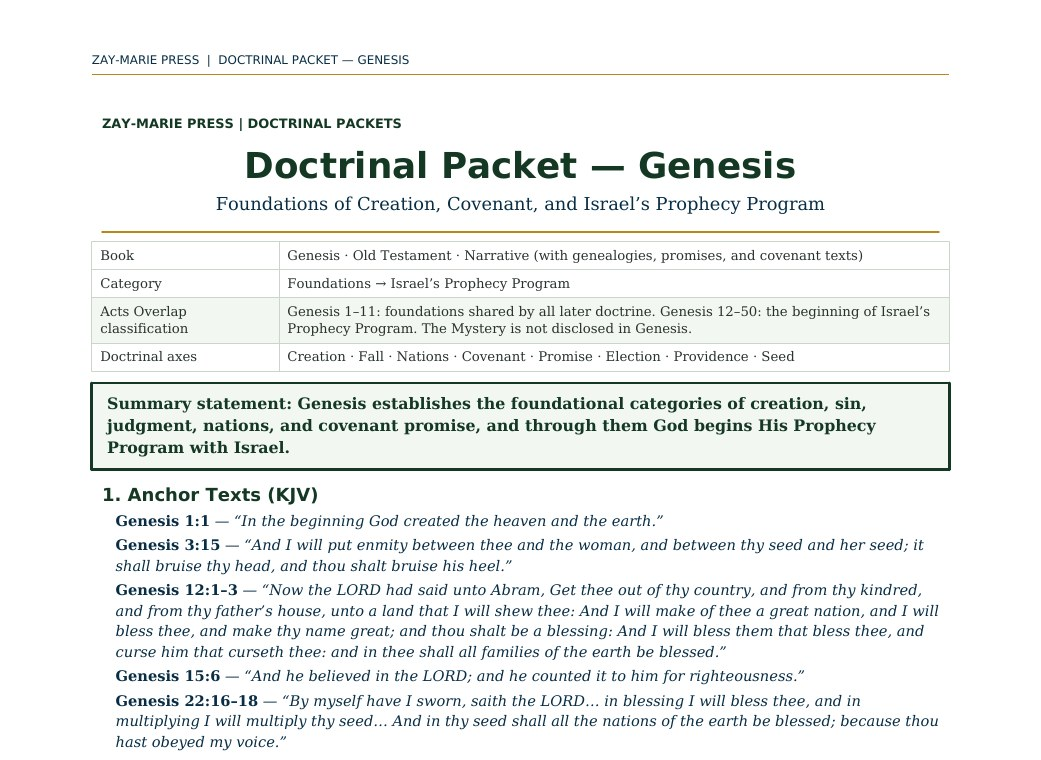
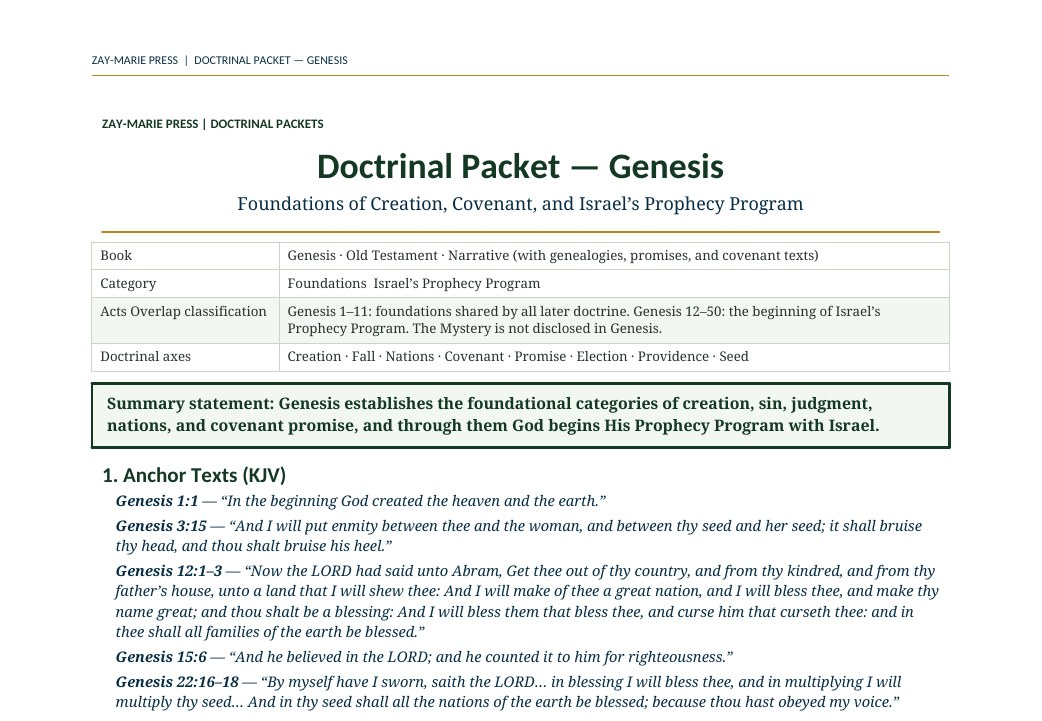
Add Doctrinal Packet: Hebrews; refresh Genesis packet previews (Noto Serif)
Claude-Session: https://claude.ai/code/session_018egMFLx6sFSnLYTKDCGyzC

Changed region(s): [[0.0922, 0.1526, 0.9222, 1.0], [0.0922, 0.061, 0.9222, 0.1221]]

diff --git a/packet-hebrews.html b/packet-hebrews.html
@@ -1,8 +1,12 @@
 <!doctype html>
-<html lang="en"><head><meta charset="utf-8"><meta name="viewport" content="width=device-width,initial-scale=1"><title>Doctrinal Packets | Zay-Marie Press</title><meta name="description" content="Doctrinal Packets are short printable interpretive guides to one book of the Bible, with KJV anchor texts, selective exegesis, charts, and teaching outlines."><link rel="stylesheet" href="styles.css?v=20260921-4"><link rel="icon" type="image/png" href="assets/zay-marie-press-favicon.png"><style>
+<html lang="en"><head><meta charset="utf-8"><meta name="viewport" content="width=device-width,initial-scale=1"><title>Doctrinal Packet: Hebrews | Zay-Marie Press</title><meta name="description" content="A 4-page printable doctrinal packet on Hebrews: KJV anchor texts, selective exegesis, the warning passages, the new covenant, charts, and a teaching outline. Preview the packet."><link rel="stylesheet" href="styles.css?v=20260921-4"><link rel="icon" type="image/png" href="assets/zay-marie-press-favicon.png"><style>
 .study-detail-page{background:#fff;color:#252525}.detail-hero{background:linear-gradient(135deg,#f8f5ec,#e3ece2);padding:58px 0}.detail-hero-grid{display:grid;grid-template-columns:minmax(250px,.72fr) minmax(0,1.28fr);gap:58px;align-items:center}.detail-cover{max-width:390px;margin:auto}.detail-cover img{display:block;width:100%;height:auto;box-shadow:0 14px 36px rgba(8,45,69,.18)}.detail-hero h1{font-size:clamp(2.7rem,5vw,4.7rem);line-height:1.02;margin:8px 0 10px;color:#143823}.detail-subtitle{font-family:Georgia,serif;font-size:1.35rem;font-weight:700;color:#082d45;margin:0 0 7px}.detail-kicker{font-family:Georgia,serif;font-style:italic;font-size:1.05rem;color:#4a4a44;margin:0 0 22px}.detail-copy{font-size:1.08rem;line-height:1.65;max-width:760px}.detail-buyline{display:flex;align-items:center;gap:18px;flex-wrap:wrap;margin-top:25px}.detail-price{font-family:Georgia,serif;font-size:2rem;font-weight:700;color:#143823}.detail-format,.preview-card .page-no{font-family:Arial,sans-serif;font-size:.76rem;font-weight:700;letter-spacing:.1em;text-transform:uppercase;color:#176b3a}.detail-button{display:inline-block;background:#176b3a;color:#fff;padding:13px 22px;font-family:Arial,sans-serif;font-size:.8rem;font-weight:700;letter-spacing:.07em;text-transform:uppercase}.detail-button.pending{opacity:.72;cursor:default}.detail-section{padding:66px 0}.detail-section.soft{background:#f6f7f2}.detail-section.cream{background:#faf8f2}.detail-section h2{color:#143823;margin:6px 0 18px;font-size:clamp(2rem,3.4vw,3rem)}.detail-section .lead{max-width:920px;font-size:1.1rem;line-height:1.62}.study-distinction{max-width:920px;margin-top:28px;margin-bottom:28px;padding:26px 28px;background:#fff;border:1px solid #d8d1bf;border-left:4px solid #b8871c}.study-distinction h3{margin:0 0 10px;color:#143823}.study-distinction p{margin:0 0 14px;line-height:1.62}.study-distinction a{font-family:Arial,sans-serif;font-weight:700;color:#176b3a;text-decoration:none}.study-points{display:grid;grid-template-columns:repeat(3,1fr);gap:18px;margin-top:28px;margin-bottom:28px}.study-point,.scripture-card,.preview-card,.include-item{background:#fff;border:1px solid var(--line);text-align:left}.study-point{border-top:3px solid #176b3a;padding:22px}.study-point h3{color:#143823;margin:0 0 8px;font-size:1.2rem}.study-point p,.scripture-card p,.preview-card p,.include-item p{margin:0;line-height:1.55}.scripture-grid{display:grid;grid-template-columns:repeat(4,1fr);gap:14px;margin-top:24px;margin-bottom:24px}.scripture-card{padding:22px 20px;color:#143823}.scripture-card h3{margin:0 0 9px;font-family:Georgia,serif;font-size:1rem;line-height:1.35}.scripture-card p{font-size:.94rem;color:#45453f}.excerpt{max-width:900px;margin:28px auto;border-left:4px solid #b8871c;padding:10px 0 10px 28px}.excerpt blockquote{font-family:Georgia,serif;font-size:clamp(1.45rem,2.5vw,2rem);line-height:1.45;color:#143823;margin:0 0 16px}.excerpt p{line-height:1.6;margin:0}.preview-grid{display:grid;grid-template-columns:repeat(2,1fr);gap:20px;margin-top:28px;margin-bottom:28px}.preview-card{padding:18px;min-height:210px;box-shadow:0 7px 20px rgba(20,40,25,.05)}.preview-image-link{display:block;margin:0 0 18px}.preview-image-link img{display:block;width:100%;height:auto;border:1px solid #d8d1bf;box-shadow:0 8px 22px rgba(20,40,25,.1);transition:transform .18s ease,box-shadow .18s ease}.preview-image-link:hover img{transform:translateY(-2px);box-shadow:0 11px 28px rgba(20,40,25,.16)}.preview-card h3{color:#143823;margin:8px 0 10px}.preview-instruction{margin:10px 0 0;font-family:Arial,sans-serif;font-size:.78rem;letter-spacing:.04em;color:#5b5b55}.includes-grid{display:grid;grid-template-columns:repeat(4,1fr);gap:14px;margin-top:26px}.include-item{padding:22px 20px;color:#143823}.include-item h3{margin:0 0 9px;font-family:Arial,sans-serif;font-size:.86rem;line-height:1.35;letter-spacing:.02em}.include-item p{font-size:.94rem;color:#45453f}.final-buy{background:#082d45;color:#fff;border-top:4px solid #b8871c;padding:42px 48px;display:grid;grid-template-columns:1fr auto;gap:36px;align-items:center}.final-buy .eyebrow,.final-buy h2,.final-buy .detail-price{color:#fff}.final-buy h2{margin:7px 0 6px}.final-buy p{margin:0}.final-offer{text-align:center}.back-link{display:inline-block;margin-top:18px;color:#143823;font-family:Arial,sans-serif;font-weight:700;text-decoration:none}.preview-lightbox{position:fixed;inset:0;z-index:10000;display:none;align-items:flex-start;justify-content:center;background:rgba(8,22,16,.88);padding:24px;overflow:auto}.preview-lightbox.open{display:flex}.preview-lightbox img{display:block;width:auto;height:auto;max-width:none;box-shadow:0 18px 55px rgba(0,0,0,.4);background:#fff}.preview-lightbox-close{position:fixed;top:18px;right:24px;z-index:10001;width:46px;height:46px;border:1px solid rgba(255,255,255,.65);border-radius:50%;background:rgba(0,0,0,.55);color:#fff;font:32px/1 Arial,sans-serif;cursor:pointer}@media(max-width:900px){.detail-hero-grid{grid-template-columns:1fr;gap:34px}.detail-cover{max-width:330px}.study-points{grid-template-columns:repeat(2,1fr)}.scripture-grid,.includes-grid{grid-template-columns:repeat(2,1fr)}.preview-grid,.final-buy{grid-template-columns:1fr}.final-offer{text-align:left}}@media(max-width:560px){.detail-hero{padding:42px 0}.detail-section{padding:50px 0}.study-points,.scripture-grid,.includes-grid{grid-template-columns:1fr}.final-buy{padding:32px 24px}.detail-buyline{align-items:flex-start;flex-direction:column;gap:8px}.preview-lightbox{padding:58px 10px 24px}.preview-lightbox img{width:100%;max-width:100%;height:auto}} .detail-hero h1{font-size:clamp(2.1rem,4.2vw,3.7rem);line-height:1.08}.packet-card{max-width:370px;margin:auto;aspect-ratio:3/4;background:#082d45;color:#fff;border-top:6px solid #b8871c;box-shadow:0 14px 36px rgba(8,45,69,.22);display:flex;flex-direction:column;justify-content:center;padding:34px 30px;text-align:center}.packet-card .pc-kick{font:700 .74rem Arial,sans-serif;letter-spacing:.16em;text-transform:uppercase;color:#e2c47c;margin-bottom:22px}.packet-card .pc-title{font:700 clamp(2.4rem,4.5vw,3.4rem)/1.05 Georgia,serif;margin:0 0 16px}.packet-card .pc-rule{width:64px;height:3px;background:#b8871c;margin:0 auto 16px}.packet-card .pc-sub{font:italic 1.05rem/1.45 Georgia,serif;color:#dbe6ee;margin:0}.packet-card .pc-foot{margin-top:28px;font:700 .68rem Arial,sans-serif;letter-spacing:.14em;text-transform:uppercase;color:#e2c47c}.packet-hub-card{display:grid;grid-template-columns:120px 1fr auto;gap:22px;align-items:center;background:#fff;border:1px solid #d8d1bf;border-left:4px solid #b8871c;padding:22px 24px;margin-top:22px;text-decoration:none;color:inherit}.packet-hub-card h3{margin:0 0 6px;color:#143823;font-size:1.5rem}.packet-hub-card p{margin:0;line-height:1.55}.packet-hub-mark{background:#082d45;color:#e2c47c;font:700 .7rem Arial,sans-serif;letter-spacing:.14em;text-transform:uppercase;text-align:center;padding:18px 8px;border-top:4px solid #b8871c}.packet-hub-price{font:700 1.4rem Georgia,serif;color:#143823;white-space:nowrap}.packet-compare{width:100%;border-collapse:collapse;margin-top:26px;background:#fff}.packet-compare th{background:#3B6E91;color:#fff;font:700 .8rem Arial,sans-serif;text-align:left;padding:10px 12px}.packet-compare td{border:1px solid #d8d1bf;padding:10px 12px;vertical-align:top;line-height:1.5}.packet-compare tr:nth-child(even) td{background:#f6f7f2}@media(max-width:700px){.packet-hub-card{grid-template-columns:1fr}.packet-hub-mark{max-width:160px}.packet-compare{font-size:.92rem}}</style></head><body class="study-detail-page">
-<header class="site-header"><div class="wrap nav"><a class="logo" href="index.html" aria-label="Zay-Marie Press home"><img src="assets/zay-marie-press-logo-hq.png" alt="Zay-Marie Press" width="420" height="238"></a><button class="menu-toggle" type="button" aria-expanded="false" aria-controls="primary-nav">MENU</button><nav aria-label="Primary navigation" class="primary-nav" id="primary-nav"><a href="index.html">HOME</a><a href="books.html">BOOKS</a><a href="series.html">SERIES</a><a href="digital-studies.html">DIGITAL STUDIES</a><a href="biblical-hermeneutics-course.html">COURSE</a><a href="about.html">ABOUT</a><a class="active" aria-current="page" href="resources.html">RESOURCES</a><a href="contact.html">CONTACT</a></nav></div></header><main><section class="detail-hero"><div class="wrap"><div class="eyebrow">DOCTRINAL PACKETS</div><h1>Doctrinal Packets</h1><p class="detail-subtitle">One book at a time, interpreted and ready to teach</p><p class="detail-copy">A Doctrinal Packet is a short, printable interpretive guide to one book of the Bible. It reads the passages that carry the book’s doctrine in the King James Version, places the book within God’s programs, and gives you charts and a teaching outline. Packets are new; more will follow.</p></div></section>
-<section class="detail-section"><div class="wrap"><div class="eyebrow">HOW THE PIECES FIT</div><h2>Summary, Packet, Study</h2><p class="lead">Each piece has its own job. Use whichever fits your question.</p><table class="packet-compare"><thead><tr><th>Piece</th><th>What it does</th><th>Length and price</th></tr></thead><tbody><tr><td><a href="bible-book-summaries.html">Bible Book Summary</a></td><td>Orients you to a whole book: setting, structure, themes, key passages. Descriptive.</td><td>Free</td></tr><tr><td><strong>Doctrinal Packet</strong></td><td>Interprets a whole book: selective exegesis, program placement, charts, teaching outline.</td><td>4 pages · $2.99</td></tr><tr><td><a href="digital-studies.html">Digital Study</a></td><td>Takes one question or passage and follows it in depth through the text.</td><td>About 16 pages · $5.99</td></tr></tbody></table>
-<div class="eyebrow" style="margin-top:44px">AVAILABLE NOW</div><h2>Packets</h2><a class="packet-hub-card" href="packet-genesis.html"><div class="packet-hub-mark">Doctrinal<br>Packet<br>Genesis</div><div><h3>Doctrinal Packet: Genesis</h3><p>Foundations of Creation, Covenant, and Israel’s Prophecy Program. What does Genesis establish as the foundation for Israel’s program, and what does it leave undisclosed?</p></div><div class="packet-hub-price">$2.99</div></a>
-<a class="packet-hub-card" href="packet-hebrews.html"><div class="packet-hub-mark">Doctrinal<br>Packet<br>Hebrews</div><div><h3>Doctrinal Packet: Hebrews</h3><p>The Superior Son, the New Covenant, and the Call to Endure. To whom is Hebrews written, and how do its priesthood, covenant, and warnings fit together?</p></div><div class="packet-hub-price">$2.99</div></a><a class="back-link" href="bible-book-summaries.html">← Back to Bible Book Summaries</a></div></section>
+<header class="site-header"><div class="wrap nav"><a class="logo" href="index.html" aria-label="Zay-Marie Press home"><img src="assets/zay-marie-press-logo-hq.png" alt="Zay-Marie Press" width="420" height="238"></a><button class="menu-toggle" type="button" aria-expanded="false" aria-controls="primary-nav">MENU</button><nav aria-label="Primary navigation" class="primary-nav" id="primary-nav"><a href="index.html">HOME</a><a href="books.html">BOOKS</a><a href="series.html">SERIES</a><a href="digital-studies.html">DIGITAL STUDIES</a><a href="biblical-hermeneutics-course.html">COURSE</a><a href="about.html">ABOUT</a><a class="active" aria-current="page" href="resources.html">RESOURCES</a><a href="contact.html">CONTACT</a></nav></div></header><main><section class="detail-hero"><div class="wrap detail-hero-grid"><div class="packet-card" role="img" aria-label="Doctrinal Packet: Hebrews"><div class="pc-kick">Doctrinal Packet</div><div class="pc-title">Hebrews</div><div class="pc-rule"></div><p class="pc-sub">The Superior Son, the New Covenant, and the Call to Endure</p><div class="pc-foot">Zay-Marie Press</div></div><div><div class="eyebrow">DOCTRINAL PACKET · BOOK OF HEBREWS</div><h1>Doctrinal Packet: Hebrews</h1><p class="detail-subtitle">The Superior Son, the New Covenant, and the Call to Endure</p><p class="detail-kicker">To whom is Hebrews written, and how do its priesthood, its covenant, and its warnings fit together?</p><p class="detail-copy">The free Hebrews summary orients you: setting, structure, themes, and key passages. This packet takes the next step and interprets. It selects the passages that carry the book’s argument, reads them in the King James Version, and sets them in a structure you can teach from.</p><p class="detail-copy">Charts, a flow of the argument, a cross-reference network labeled by setting, a teaching outline, and application questions are all on four printable pages.</p><div class="detail-buyline"><span class="detail-price">$2.99</span><span class="detail-format">Digital PDF · 4 Pages</span><span class="detail-button pending" aria-disabled="true">Checkout Coming Soon</span></div></div></div></section>
+<section class="detail-section"><div class="wrap"><div class="eyebrow">ABOUT THIS PACKET</div><h2>Interpretation, Not Just Orientation</h2><p class="lead">A packet selects. It does not walk through thirteen chapters verse by verse. It reads the passages that carry the book’s argument closely and summarizes the rest by structure and theme, then places the book within God’s dealings as Acts Overlap Theology reads them.</p><p class="lead">Readers who want the whole book first can start with the free <a href="hebrews-summary.html">Hebrews summary</a>. Readers who want one warning passage or one priesthood treated in full will find them in <a href="study-28-the-warning-of-hebrews-6-4-6.html">Study 28</a> and <a href="study-67-melchizedek.html">Study 67</a>. This packet surveys the whole book and asks one narrower question: to whom does Hebrews speak, and how do its priesthood, covenant, and warnings fit together?</p>
+<div class="study-distinction"><h3>How Packets Relate</h3><p>A packet sits between a free summary and a full study. The pages below supply the neighboring ground.</p><p><a href="hebrews-summary.html">Hebrews — Bible Book Summary (free)</a> Read the book’s purpose, structure, and themes first; the packet interprets where the summary describes.</p><p><a href="study-28-the-warning-of-hebrews-6-4-6.html">Study 28 — The Warning of Hebrews 6:4–6</a> Follow one warning passage in full; the packet sets all five warnings side by side.</p><p><a href="study-12-the-new-covenant.html">Study 12 — The New Covenant</a> Follow the covenant’s parties and promises across Scripture; the packet stays within Hebrews.</p><p class="connection-guide-link"><a href="doctrinal-packets.html">About Doctrinal Packets →</a></p></div>
+<div class="eyebrow">WHAT YOU’LL STUDY</div><h2>Trace the Book’s Argument</h2><div class="study-points"><div class="study-point"><h3>Decisive Passages</h3><p>Read five anchor texts in the King James Version and follow the wording that each one uses.</p></div><div class="study-point"><h3>Selective Exegesis</h3><p>Follow six movements of the book, from the Son above the angels to the kingdom that cannot be moved, through what each passage states.</p></div><div class="study-point"><h3>The Warning Movements</h3><p>Set the five warnings side by side and note the audience, the danger named, and the encouragement each one carries.</p></div><div class="study-point"><h3>Setting and Audience</h3><p>Learn to test who a passage addresses and which Scriptures it builds on, and to note what the book does and does not name.</p></div><div class="study-point"><h3>Charts and a Flow</h3><p>Use a comparison chart, a flow of the argument, and a cross-reference network labeled by setting.</p></div><div class="study-point"><h3>Teaching Tools</h3><p>Use a five-part teaching outline, apologetic points, and application questions as a basis for a lesson.</p></div></div>
+<div class="eyebrow">KEY SCRIPTURES</div><h2>Read the Word in Its Context</h2><div class="scripture-grid"><div class="scripture-card"><h3>Hebrews 1:1–14</h3><p>God’s last word and the Son above the angels.</p></div><div class="scripture-card"><h3>Hebrews 3:7–4:13</h3><p>The wilderness warning and the rest that remains.</p></div><div class="scripture-card"><h3>Hebrews 5:1–7:28</h3><p>The priest after the order of Melchisedec.</p></div><div class="scripture-card"><h3>Hebrews 8:1–13</h3><p>The new covenant and the named parties.</p></div><div class="scripture-card"><h3>Hebrews 9:11–10:25</h3><p>The final sacrifice and confident approach.</p></div><div class="scripture-card"><h3>Hebrews 5:11–6:12</h3><p>A warning and the better things expected.</p></div><div class="scripture-card"><h3>Hebrews 10:26–39</h3><p>A warning and the call to endure.</p></div><div class="scripture-card"><h3>Hebrews 11:1–12:29</h3><p>Faith, the witnesses, and the kingdom that cannot be moved.</p></div></div>
+<div class="eyebrow">A LOOK INSIDE</div><h2>Preview the Packet Before You Purchase</h2><p class="preview-instruction">Click any page to enlarge it for reading.</p><div class="preview-grid"><div class="preview-card"><a class="preview-image-link" data-preview-lightbox href="assets/packet-hebrews-preview-1.jpg"><img src="assets/packet-hebrews-preview-1.jpg" alt="Hebrews packet: title block, metadata, and KJV anchor texts"></a><div class="page-no">From Page 1</div><h3>Structure and Anchor Texts</h3><p>See how the packet is organized and the King James anchor texts it builds on.</p></div><div class="preview-card"><a class="preview-image-link" data-preview-lightbox href="assets/packet-hebrews-preview-2.jpg"><img src="assets/packet-hebrews-preview-2.jpg" alt="Hebrews packet: comparison chart and flow of the argument"></a><div class="page-no">From Page 3</div><h3>Charts and the Flow of the Argument</h3><p>See the comparison chart and the flow through the book’s thirteen chapters.</p></div></div>
+<div class="eyebrow">WHAT’S INCLUDED</div><h2>A Focused Packet on One Book</h2><div class="includes-grid"><div class="include-item"><h3>4-Page Printable PDF</h3><p>Ready to print or use on screen.</p></div><div class="include-item"><h3>Five KJV Anchor Texts</h3><p>The passages the packet builds on.</p></div><div class="include-item"><h3>Selective Exegesis</h3><p>Six movements read closely.</p></div><div class="include-item"><h3>Setting Contrast Table</h3><p>What the book sets out and what it does not name.</p></div><div class="include-item"><h3>Warning Table</h3><p>Five warnings, each paired with its encouragement.</p></div><div class="include-item"><h3>Charts and Flow</h3><p>Comparison chart, flow of the argument, and cross-reference network.</p></div><div class="include-item"><h3>Logic Chain</h3><p>Eight numbered steps drawn from the book’s own movement.</p></div><div class="include-item"><h3>Teaching Outline, Application, Go Deeper</h3><p>A five-part outline, application points, and related studies.</p></div></div>
+<div class="final-buy"><div><div class="eyebrow">DOCTRINAL PACKET · HEBREWS</div><h2>Doctrinal Packet: Hebrews</h2><p>4-page digital PDF · For personal use</p></div><div class="final-offer"><div class="detail-price">$2.99</div><span class="detail-button pending" aria-disabled="true">Checkout Coming Soon</span></div></div><a class="back-link" href="doctrinal-packets.html">← Back to Doctrinal Packets</a></div></section>
 </main><div class="preview-lightbox" id="preview-lightbox" role="dialog" aria-modal="true" aria-label="Expanded study preview"><button class="preview-lightbox-close" type="button" aria-label="Close preview">×</button><img id="preview-lightbox-image" alt=""></div><footer class="site-footer"><div class="wrap footer-grid"><div class="footer-about"><h3>Zay-Marie Press</h3><p class="footer-tagline"><em>Where the Bible Means What It Says.</em></p><p>Zay-Marie Press is a Christian theological publisher dedicated to producing doctrinally precise, carefully structured biblical resources that equip pastors, teachers, and serious students with clarity, depth, and Scripture-anchored truth.</p><p><a href="https://zaymariepress.com">zaymariepress.com</a><br><a href="mailto:info@zaymariepress.com">info@zaymariepress.com</a></p></div><div class="footer-column"><h3>Explore</h3><div class="footer-links-stacked"><a href="books.html">Books</a><br><a href="series.html">Series</a><br><a href="biblical-hermeneutics-course.html">Course</a><br><a href="digital-studies.html">Digital Studies</a><br><a href="resources.html">Resources</a><br><a href="bible-book-summaries.html">Bible Book Summaries</a><br><a href="historical-drift.html">Historical Drift</a><br><a href="about.html">About</a><br><a href="contact.html">Contact</a></div></div><div class="footer-column"><h3>Reader Support</h3><div class="footer-links-stacked"><a href="reader-support.html#faq">FAQ</a><br><a href="reader-support.html#shipping-returns">Shipping &amp; Returns</a><br><a href="reader-support.html#digital-downloads">Digital Downloads</a><br><a href="reader-support.html#contact-support">Contact Support</a></div></div><div class="footer-column"><h3>Acts Overlap</h3><p><strong>Acts Overlap Theology Series</strong></p><p><em>Two Distinct Streams. One Overlap.</em></p><p><a href="series.html">Series Overview</a></p></div></div><div class="wrap footer-bottom">© 2026 Zay-Marie Press. All rights reserved.</div></footer><script src="site.js"></script><script>const lightbox=document.getElementById('preview-lightbox'),lightboxImage=document.getElementById('preview-lightbox-image'),closeLightbox=()=>{lightbox.classList.remove('open');lightboxImage.src='';};document.querySelectorAll('[data-preview-lightbox]').forEach(link=>link.addEventListener('click',event=>{event.preventDefault();lightboxImage.src=link.href;lightboxImage.alt=link.querySelector('img').alt;lightbox.classList.add('open');}));document.querySelector('.preview-lightbox-close').addEventListener('click',closeLightbox);lightbox.addEventListener('click',event=>{if(event.target===lightbox)closeLightbox();});document.addEventListener('keydown',event=>{if(event.key==='Escape')closeLightbox();});</script></body></html>

diff --git a/hebrews-summary.html b/hebrews-summary.html
@@ -1,1 +1,1 @@
-<!DOCTYPE html><html lang="en"><head><meta charset="utf-8"/><meta content="width=device-width,initial-scale=1" name="viewport"/><title>Hebrews Summary — Zay-Marie Press</title><meta name="description" content="A free structured summary of Hebrews: purpose, context, structure, themes, key passages, interpretive considerations, and study questions."/><link rel="canonical" href="https://zaymariepress.com/hebrews-summary.html"/><link href="styles.css" rel="stylesheet"/><link href="bible-book-summaries.css" rel="stylesheet"/><link href="assets/zay-marie-press-favicon.png" rel="icon" type="image/png"/></head><body><header class="site-header"><div class="wrap nav"><a aria-label="Zay-Marie Press home" class="logo" href="index.html"><img alt="Zay-Marie Press" height="238" src="assets/zay-marie-press-logo-hq.png" width="420"/></a><button aria-controls="primary-nav" aria-expanded="false" class="menu-toggle" type="button">MENU</button><nav aria-label="Primary navigation" class="primary-nav" id="primary-nav"><a href="index.html">HOME</a><a href="books.html">BOOKS</a><a href="series.html">SERIES</a><a href="digital-studies.html">DIGITAL STUDIES</a><a href="biblical-hermeneutics-course.html">COURSE</a><a href="about.html">ABOUT</a><a class="active" aria-current="page" href="resources.html">RESOURCES</a><a href="contact.html">CONTACT</a></nav></div></header><main><section class="summary-hero"><div class="wrap"><div class="summary-breadcrumb"><a href="resources.html">Free Resources</a> / <a href="bible-book-summaries.html">Bible Book Summaries</a> / Hebrews</div><h1>Hebrews</h1><p class="lead">A sustained exhortation to Hebrew believers to hold fast to God’s climactic revelation in the Son, whose superior priesthood and once-for-all sacrifice secure access, endurance, and promised inheritance.</p></div></section><section class="book-summary-main"><div class="wrap"><div class="book-at-glance"><div class="glance-item"><strong>Testament</strong><span>New Testament</span></div><div class="glance-item"><strong>Genre</strong><span>Homiletical Epistle</span></div><div class="glance-item"><strong>Primary Audience</strong><span>Hebrew believers under pressure</span></div><div class="glance-item"><strong>Central Emphasis</strong><span>The superiority of the Son and His priestly work</span></div></div><div class="summary-layout"><nav class="summary-nav" aria-label="On this page"><strong>On This Page</strong><a href="#purpose">Purpose</a><a href="#context">Historical and Biblical Context</a><a href="#outline">Structure and Outline</a><a href="#themes">Major Themes</a><a href="#passages">Key Passages</a><a href="#considerations">Interpretive Considerations</a><a href="#questions">Study Questions</a></nav><article class="summary-article"><section id="purpose"><h2>Purpose</h2><p>Hebrews urges its hearers not to drift, harden their hearts, draw back, or abandon their confession under suffering. Its doctrinal exposition supports repeated exhortations to pay attention, approach with confidence, hold fast, pursue maturity, assemble faithfully, and endure.</p><p>The writer demonstrates that God’s revelation in the Son surpasses angelic mediation, Moses, Joshua, the Levitical priesthood, and repeated sacrifices. Jesus is the promised royal Son, merciful high priest, mediator of the new covenant, and once-for-all sacrifice.</p></section><section id="context"><h2>Historical and Biblical Context</h2><p>The recipients know Israel’s Scriptures, priesthood, sanctuary, sacrifices, wilderness history, and covenant promises in detail. They have suffered public reproach and material loss, though they have not yet resisted to the point of blood. Renewed pressure makes retreat especially dangerous.</p><p>The book does not name its author. Proposals include Paul, Barnabas, Apollos, Luke, and others, but certainty is unavailable. Its audience, warning structure, and explicit use of Jeremiah’s new-covenant promise place it within Israel’s prophetic and covenant setting. Its rich testimony to Christ benefits all Scripture readers without making the Body of Christ the stated covenant party.</p></section><section id="outline"><h2>Structure and Outline</h2><ol class="outline-list"><li><div><strong>The Son above angels — Hebrews 1–2</strong><br/>The enthroned Creator-Son shares humanity, suffers death, and becomes a merciful high priest.</div></li><li><div><strong>Jesus above Moses; enter God’s rest — Hebrews 3–4</strong><br/>The wilderness generation warns hearers to respond in faith and approach the sympathetic high priest.</div></li><li><div><strong>Melchizedek priesthood and mature assurance — Hebrews 5–7</strong><br/>Warning against immaturity leads to exposition of Christ’s permanent, superior priesthood.</div></li><li><div><strong>New covenant, true sanctuary, and final sacrifice — Hebrews 8–10</strong><br/>Jeremiah’s covenant promise, heavenly ministry, and Christ’s once-for-all offering ground access and endurance.</div></li><li><div><strong>Faith and disciplined endurance — Hebrews 11–12</strong><br/>Israel’s faithful witnesses encourage a persevering race toward the promised kingdom.</div></li><li><div><strong>Faithful community and final appeal — Hebrews 13</strong><br/>Love, hospitality, purity, contentment, sound teaching, praise, generosity, and submission mark persevering worship.</div></li></ol></section><section id="themes"><h2>Major Themes</h2><h3>God’s Final Revelation in the Son</h3><p>The Son is Creator, heir, radiance of God’s glory, exact representation of His being, purifier of sins, and enthroned ruler.</p><h3>Superior High Priesthood</h3><p>Jesus is a compassionate priest after the order of Melchizedek. His indestructible life and permanent priesthood guarantee a better hope.</p><h3>New Covenant and Once-for-All Sacrifice</h3><p>Hebrews quotes Jeremiah’s promise to the houses of Israel and Judah and presents Christ’s blood and heavenly ministry as the basis of covenant forgiveness and access.</p><h3>Warning and Perseverance</h3><p>Five major warning movements address real danger: neglect, unbelief, immaturity and falling away, deliberate sin, and refusal of the heavenly speaker.</p><h3>Faith Directed toward Promise</h3><p>Faith trusts God’s word, acts amid delay, accepts reproach, and reaches toward the promised city, kingdom, and inheritance.</p></section><section id="passages"><h2>Key Passages</h2><div class="key-passages"><div class="key-passage"><strong>Hebrews 1:1–14</strong>God’s revelation and the Son’s supremacy over angels.</div><div class="key-passage"><strong>Hebrews 2:5–18</strong>The world to come, shared humanity, suffering, and priestly help.</div><div class="key-passage"><strong>Hebrews 3:7–4:16</strong>Wilderness warning, promised rest, God’s word, and confident access.</div><div class="key-passage"><strong>Hebrews 6:4–20</strong>Severe warning, diligent hope, and God’s oath to Abraham.</div><div class="key-passage"><strong>Hebrews 7:1–28</strong>Melchizedek and Christ’s permanent priesthood.</div><div class="key-passage"><strong>Hebrews 8:1–13</strong>The heavenly minister and promised new covenant.</div><div class="key-passage"><strong>Hebrews 9:11–10:25</strong>Christ’s blood, final sacrifice, access, and assembly.</div><div class="key-passage"><strong>Hebrews 11:1–12:29</strong>Faith’s witnesses, disciplined endurance, and the unshakable kingdom.</div></div></section><section id="considerations"><h2>Interpretive Considerations</h2><ul><li>Identify the Hebrew audience and Israel-centered covenant setting before applying the book’s teaching more broadly.</li><li>Do not redefine Jeremiah 31’s named parties. Hebrews quotes the new covenant with the house of Israel and the house of Judah and does not identify the Body of Christ as those houses.</li><li>Read each warning in its own argument and alongside the wilderness generation, covenant accountability, promised inheritance, and the world to come.</li><li>“Better” does not mean Israel’s prophetic program has been discarded; it describes the superiority of the Son, His priesthood, sacrifice, access, and covenant ministry.</li><li>Distinguish Christ’s completed sacrifice from the recipients’ need to persevere in confession. The book joins assurance and warning without flattening either.</li><li>Later doctrinal benefit does not erase original assignment. Meaning first, assignment second, and application third is especially important in Hebrews.</li></ul></section><section id="questions"><h2>Study Questions</h2><ol><li>Which titles and works establish the Son’s superiority in Hebrews 1?</li><li>How does the wilderness generation function as a warning?</li><li>Why is Christ’s Melchizedek priesthood superior to the Levitical order?</li><li>Who are the named parties of the new covenant quoted in Hebrews 8?</li><li>How does the once-for-all offering change access and worship?</li><li>What promised realities enable the audience to endure suffering?</li></ol></section><div class="summary-next"><p><strong>Continue your study.</strong><br/>Trace every comparison, “better” statement, warning, priestly term, covenant reference, and exhortation to endurance.</p><div class="summary-next-actions"><a class="summary-button" href="assets/Bible_Book_Study_Starter_Pack.pdf" target="_blank" rel="noopener">Open Starter Pack</a><a class="summary-button secondary" href="bible-book-summaries.html">All Book Summaries</a></div></div></article></div></div></section></main><footer class="site-footer"><div class="wrap footer-grid"><div class="footer-about"><h3>Zay-Marie Press</h3><p class="footer-tagline"><em>Where the Bible Means What It Says.</em></p><p>Zay-Marie Press is a Christian theological publisher dedicated to producing doctrinally precise, carefully structured biblical resources that equip pastors, teachers, and serious students with clarity, depth, and Scripture-anchored truth.</p><p><a href="https://zaymariepress.com">zaymariepress.com</a><br/><a href="mailto:info@zaymariepress.com">info@zaymariepress.com</a></p></div><div class="footer-column"><h3>Explore</h3><div class="footer-links-stacked"><a href="books.html">Books</a><br/><a href="series.html">Series</a><br/><a href="biblical-hermeneutics-course.html">Course</a><br/><a href="digital-studies.html">Digital Studies</a><br/><a href="resources.html">Resources</a><br/><a href="bible-book-summaries.html">Bible Book Summaries</a><br/><a href="historical-drift.html">Historical Drift</a><br/><a href="about.html">About</a><br/><a href="contact.html">Contact</a></div></div><div class="footer-column"><h3>Reader Support</h3><div class="footer-links-stacked"><a href="reader-support.html#faq">FAQ</a><br/><a href="reader-support.html#shipping-returns">Shipping &amp; Returns</a><br/><a href="reader-support.html#digital-downloads">Digital Downloads</a><br/><a href="reader-support.html#contact-support">Contact Support</a></div></div><div class="footer-column"><h3>Acts Overlap</h3><p><strong>Acts Overlap Theology Series</strong></p><p><em>Two Distinct Streams. One Overlap.</em></p><p><a href="series.html">Series Overview</a></p></div></div><div class="wrap footer-bottom">© 2026 Zay-Marie Press. All rights reserved.</div></footer><script defer src="site.js"></script></body></html>
+<!DOCTYPE html><html lang="en"><head><meta charset="utf-8"/><meta content="width=device-width,initial-scale=1" name="viewport"/><title>Hebrews Summary — Zay-Marie Press</title><meta name="description" content="A free structured summary of Hebrews: purpose, context, structure, themes, key passages, interpretive considerations, and study questions."/><link rel="canonical" href="https://zaymariepress.com/hebrews-summary.html"/><link href="styles.css" rel="stylesheet"/><link href="bible-book-summaries.css" rel="stylesheet"/><link href="assets/zay-marie-press-favicon.png" rel="icon" type="image/png"/></head><body><header class="site-header"><div class="wrap nav"><a aria-label="Zay-Marie Press home" class="logo" href="index.html"><img alt="Zay-Marie Press" height="238" src="assets/zay-marie-press-logo-hq.png" width="420"/></a><button aria-controls="primary-nav" aria-expanded="false" class="menu-toggle" type="button">MENU</button><nav aria-label="Primary navigation" class="primary-nav" id="primary-nav"><a href="index.html">HOME</a><a href="books.html">BOOKS</a><a href="series.html">SERIES</a><a href="digital-studies.html">DIGITAL STUDIES</a><a href="biblical-hermeneutics-course.html">COURSE</a><a href="about.html">ABOUT</a><a class="active" aria-current="page" href="resources.html">RESOURCES</a><a href="contact.html">CONTACT</a></nav></div></header><main><section class="summary-hero"><div class="wrap"><div class="summary-breadcrumb"><a href="resources.html">Free Resources</a> / <a href="bible-book-summaries.html">Bible Book Summaries</a> / Hebrews</div><h1>Hebrews</h1><p class="lead">A sustained exhortation to Hebrew believers to hold fast to God’s climactic revelation in the Son, whose superior priesthood and once-for-all sacrifice secure access, endurance, and promised inheritance.</p></div></section><section class="book-summary-main"><div class="wrap"><div class="book-at-glance"><div class="glance-item"><strong>Testament</strong><span>New Testament</span></div><div class="glance-item"><strong>Genre</strong><span>Homiletical Epistle</span></div><div class="glance-item"><strong>Primary Audience</strong><span>Hebrew believers under pressure</span></div><div class="glance-item"><strong>Central Emphasis</strong><span>The superiority of the Son and His priestly work</span></div></div><div class="summary-layout"><nav class="summary-nav" aria-label="On this page"><strong>On This Page</strong><a href="#purpose">Purpose</a><a href="#context">Historical and Biblical Context</a><a href="#outline">Structure and Outline</a><a href="#themes">Major Themes</a><a href="#passages">Key Passages</a><a href="#considerations">Interpretive Considerations</a><a href="#questions">Study Questions</a></nav><article class="summary-article"><section id="purpose"><h2>Purpose</h2><p>Hebrews urges its hearers not to drift, harden their hearts, draw back, or abandon their confession under suffering. Its doctrinal exposition supports repeated exhortations to pay attention, approach with confidence, hold fast, pursue maturity, assemble faithfully, and endure.</p><p>The writer demonstrates that God’s revelation in the Son surpasses angelic mediation, Moses, Joshua, the Levitical priesthood, and repeated sacrifices. Jesus is the promised royal Son, merciful high priest, mediator of the new covenant, and once-for-all sacrifice.</p></section><section id="context"><h2>Historical and Biblical Context</h2><p>The recipients know Israel’s Scriptures, priesthood, sanctuary, sacrifices, wilderness history, and covenant promises in detail. They have suffered public reproach and material loss, though they have not yet resisted to the point of blood. Renewed pressure makes retreat especially dangerous.</p><p>The book does not name its author. Proposals include Paul, Barnabas, Apollos, Luke, and others, but certainty is unavailable. Its audience, warning structure, and explicit use of Jeremiah’s new-covenant promise place it within Israel’s prophetic and covenant setting. Its rich testimony to Christ benefits all Scripture readers without making the Body of Christ the stated covenant party.</p></section><section id="outline"><h2>Structure and Outline</h2><ol class="outline-list"><li><div><strong>The Son above angels — Hebrews 1–2</strong><br/>The enthroned Creator-Son shares humanity, suffers death, and becomes a merciful high priest.</div></li><li><div><strong>Jesus above Moses; enter God’s rest — Hebrews 3–4</strong><br/>The wilderness generation warns hearers to respond in faith and approach the sympathetic high priest.</div></li><li><div><strong>Melchizedek priesthood and mature assurance — Hebrews 5–7</strong><br/>Warning against immaturity leads to exposition of Christ’s permanent, superior priesthood.</div></li><li><div><strong>New covenant, true sanctuary, and final sacrifice — Hebrews 8–10</strong><br/>Jeremiah’s covenant promise, heavenly ministry, and Christ’s once-for-all offering ground access and endurance.</div></li><li><div><strong>Faith and disciplined endurance — Hebrews 11–12</strong><br/>Israel’s faithful witnesses encourage a persevering race toward the promised kingdom.</div></li><li><div><strong>Faithful community and final appeal — Hebrews 13</strong><br/>Love, hospitality, purity, contentment, sound teaching, praise, generosity, and submission mark persevering worship.</div></li></ol></section><section id="themes"><h2>Major Themes</h2><h3>God’s Final Revelation in the Son</h3><p>The Son is Creator, heir, radiance of God’s glory, exact representation of His being, purifier of sins, and enthroned ruler.</p><h3>Superior High Priesthood</h3><p>Jesus is a compassionate priest after the order of Melchizedek. His indestructible life and permanent priesthood guarantee a better hope.</p><h3>New Covenant and Once-for-All Sacrifice</h3><p>Hebrews quotes Jeremiah’s promise to the houses of Israel and Judah and presents Christ’s blood and heavenly ministry as the basis of covenant forgiveness and access.</p><h3>Warning and Perseverance</h3><p>Five major warning movements address real danger: neglect, unbelief, immaturity and falling away, deliberate sin, and refusal of the heavenly speaker.</p><h3>Faith Directed toward Promise</h3><p>Faith trusts God’s word, acts amid delay, accepts reproach, and reaches toward the promised city, kingdom, and inheritance.</p></section><section id="passages"><h2>Key Passages</h2><div class="key-passages"><div class="key-passage"><strong>Hebrews 1:1–14</strong>God’s revelation and the Son’s supremacy over angels.</div><div class="key-passage"><strong>Hebrews 2:5–18</strong>The world to come, shared humanity, suffering, and priestly help.</div><div class="key-passage"><strong>Hebrews 3:7–4:16</strong>Wilderness warning, promised rest, God’s word, and confident access.</div><div class="key-passage"><strong>Hebrews 6:4–20</strong>Severe warning, diligent hope, and God’s oath to Abraham.</div><div class="key-passage"><strong>Hebrews 7:1–28</strong>Melchizedek and Christ’s permanent priesthood.</div><div class="key-passage"><strong>Hebrews 8:1–13</strong>The heavenly minister and promised new covenant.</div><div class="key-passage"><strong>Hebrews 9:11–10:25</strong>Christ’s blood, final sacrifice, access, and assembly.</div><div class="key-passage"><strong>Hebrews 11:1–12:29</strong>Faith’s witnesses, disciplined endurance, and the unshakable kingdom.</div></div></section><section id="considerations"><h2>Interpretive Considerations</h2><ul><li>Identify the Hebrew audience and Israel-centered covenant setting before applying the book’s teaching more broadly.</li><li>Do not redefine Jeremiah 31’s named parties. Hebrews quotes the new covenant with the house of Israel and the house of Judah and does not identify the Body of Christ as those houses.</li><li>Read each warning in its own argument and alongside the wilderness generation, covenant accountability, promised inheritance, and the world to come.</li><li>“Better” does not mean Israel’s prophetic program has been discarded; it describes the superiority of the Son, His priesthood, sacrifice, access, and covenant ministry.</li><li>Distinguish Christ’s completed sacrifice from the recipients’ need to persevere in confession. The book joins assurance and warning without flattening either.</li><li>Later doctrinal benefit does not erase original assignment. Meaning first, assignment second, and application third is especially important in Hebrews.</li></ul></section><section id="questions"><h2>Study Questions</h2><ol><li>Which titles and works establish the Son’s superiority in Hebrews 1?</li><li>How does the wilderness generation function as a warning?</li><li>Why is Christ’s Melchizedek priesthood superior to the Levitical order?</li><li>Who are the named parties of the new covenant quoted in Hebrews 8?</li><li>How does the once-for-all offering change access and worship?</li><li>What promised realities enable the audience to endure suffering?</li></ol></section><div class="packet-callout"><p><strong>Go beyond orientation.</strong><br/>The Doctrinal Packet for Hebrews interprets the book: selective exegesis, the warning passages, the new covenant, charts, and a teaching outline. 4 pages · $2.99</p><a class="summary-button" href="packet-hebrews.html">See the Hebrews Packet</a></div><div class="summary-next"><p><strong>Continue your study.</strong><br/>Trace every comparison, “better” statement, warning, priestly term, covenant reference, and exhortation to endurance.</p><div class="summary-next-actions"><a class="summary-button" href="assets/Bible_Book_Study_Starter_Pack.pdf" target="_blank" rel="noopener">Open Starter Pack</a><a class="summary-button secondary" href="bible-book-summaries.html">All Book Summaries</a></div></div></article></div></div></section></main><footer class="site-footer"><div class="wrap footer-grid"><div class="footer-about"><h3>Zay-Marie Press</h3><p class="footer-tagline"><em>Where the Bible Means What It Says.</em></p><p>Zay-Marie Press is a Christian theological publisher dedicated to producing doctrinally precise, carefully structured biblical resources that equip pastors, teachers, and serious students with clarity, depth, and Scripture-anchored truth.</p><p><a href="https://zaymariepress.com">zaymariepress.com</a><br/><a href="mailto:info@zaymariepress.com">info@zaymariepress.com</a></p></div><div class="footer-column"><h3>Explore</h3><div class="footer-links-stacked"><a href="books.html">Books</a><br/><a href="series.html">Series</a><br/><a href="biblical-hermeneutics-course.html">Course</a><br/><a href="digital-studies.html">Digital Studies</a><br/><a href="resources.html">Resources</a><br/><a href="bible-book-summaries.html">Bible Book Summaries</a><br/><a href="historical-drift.html">Historical Drift</a><br/><a href="about.html">About</a><br/><a href="contact.html">Contact</a></div></div><div class="footer-column"><h3>Reader Support</h3><div class="footer-links-stacked"><a href="reader-support.html#faq">FAQ</a><br/><a href="reader-support.html#shipping-returns">Shipping &amp; Returns</a><br/><a href="reader-support.html#digital-downloads">Digital Downloads</a><br/><a href="reader-support.html#contact-support">Contact Support</a></div></div><div class="footer-column"><h3>Acts Overlap</h3><p><strong>Acts Overlap Theology Series</strong></p><p><em>Two Distinct Streams. One Overlap.</em></p><p><a href="series.html">Series Overview</a></p></div></div><div class="wrap footer-bottom">© 2026 Zay-Marie Press. All rights reserved.</div></footer><script defer src="site.js"></script></body></html>
